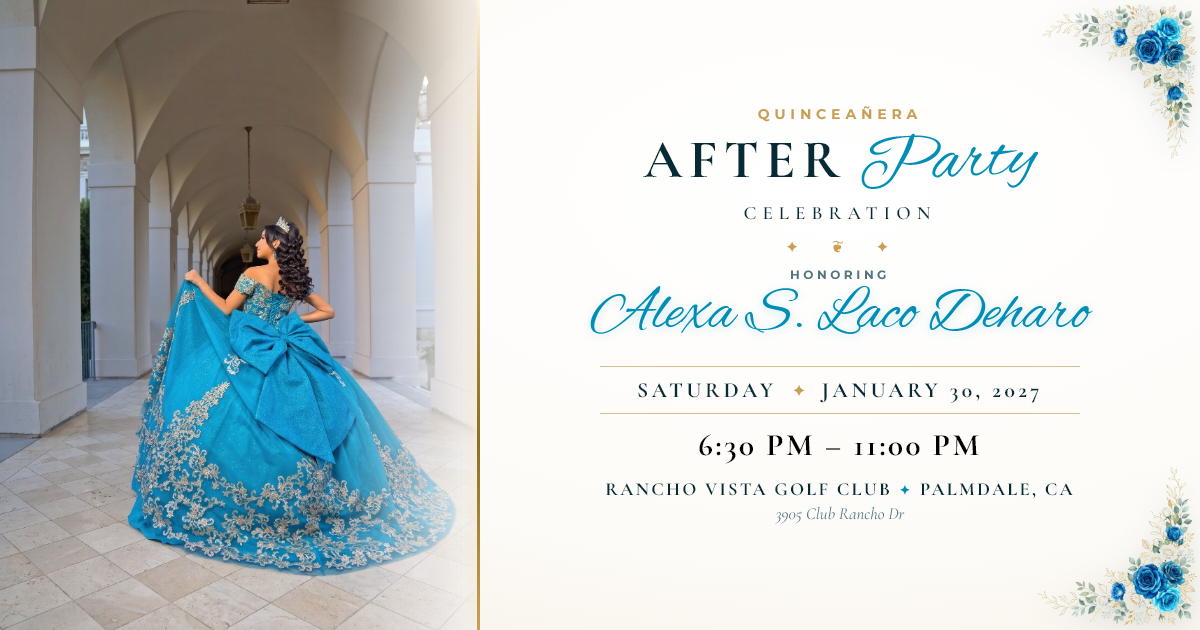
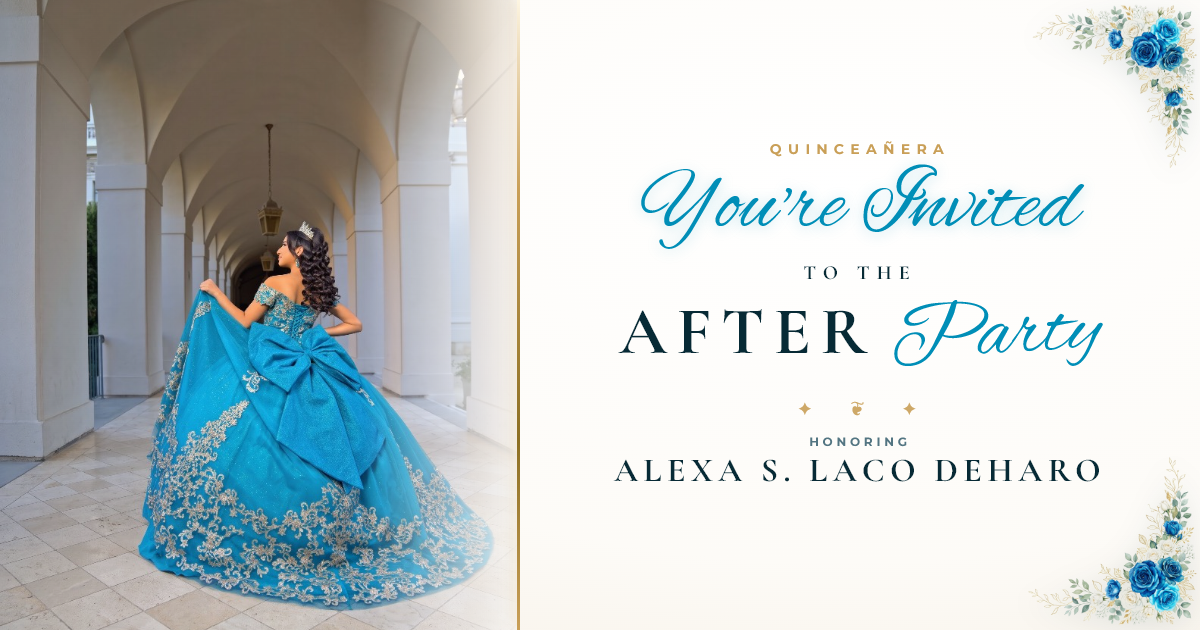
Update OG preview to minimal 'You're Invited to the After Party' with Alexa's portrait

diff --git a/alexadeharoafter/og-builder.html b/alexadeharoafter/og-builder.html
@@ -27,9 +27,9 @@
       background: #fdfbf7 radial-gradient(ellipse at 70% 30%, #ffffff 0%, #fdfbf7 60%, #f4ede1 100%);
     }
 
-    /* ── LEFT SIDE: Full-Bleed Portrait with Vignette & Arch Glow ── */
+    /* ── LEFT SIDE: Full-Bleed Portrait of Alexa ── */
     .og-left {
-      width: 480px;
+      width: 520px;
       height: 630px;
       position: relative;
       overflow: hidden;
@@ -40,13 +40,13 @@
       width: 100%;
       height: 100%;
       object-fit: cover;
-      object-position: center 30%;
+      object-position: center 28%;
       display: block;
     }
     .og-portrait-overlay {
       position: absolute;
       inset: 0;
-      background: linear-gradient(90deg, rgba(7,42,53,0.1) 0%, rgba(7,42,53,0) 70%, rgba(253,251,247,0.85) 98%, rgba(253,251,247,1) 100%);
+      background: linear-gradient(90deg, rgba(7,42,53,0.08) 0%, rgba(7,42,53,0) 70%, rgba(253,251,247,0.85) 98%, rgba(253,251,247,1) 100%);
       pointer-events: none;
     }
     .og-gold-seam {
@@ -56,11 +56,11 @@
       right: 0;
       width: 3px;
       background: linear-gradient(180deg, #fdf5e2 0%, #c99f57 30%, #8c6f23 70%, #c99f57 100%);
-      box-shadow: 0 0 12px rgba(201, 159, 87, 0.6);
+      box-shadow: 0 0 14px rgba(201, 159, 87, 0.7);
       z-index: 5;
     }
 
-    /* ── RIGHT SIDE: Luxury Stationery Presentation ── */
+    /* ── RIGHT SIDE: "You're Invited to the After Party" ── */
     .og-right {
       flex: 1;
       height: 630px;
@@ -70,7 +70,7 @@
       justify-content: center;
       align-items: center;
       text-align: center;
-      padding: 40px 60px;
+      padding: 50px 70px;
       z-index: 2;
     }
 
@@ -79,7 +79,7 @@
       position: absolute;
       top: 0;
       right: 0;
-      width: 170px;
+      width: 180px;
       pointer-events: none;
       filter: drop-shadow(0 6px 14px rgba(7, 42, 53, 0.12));
     }
@@ -87,136 +87,99 @@
       position: absolute;
       bottom: 0;
       right: 0;
-      width: 175px;
+      width: 185px;
       pointer-events: none;
       filter: drop-shadow(0 6px 14px rgba(7, 42, 53, 0.12));
     }
 
-    /* Typography */
+    /* Typography Hierarchy */
     .og-supertitle {
-      font-size: 0.85rem;
+      font-size: 0.9rem;
       font-weight: 700;
-      letter-spacing: 0.38em;
+      letter-spacing: 0.42em;
       text-transform: uppercase;
       color: #c99f57;
-      margin-bottom: 6px;
+      margin-bottom: 8px;
     }
+
+    .og-invited-script {
+      font-family: 'Alex Brush', cursive;
+      font-size: 5.4rem;
+      font-weight: 400;
+      color: #008eb7;
+      line-height: 1;
+      margin-bottom: 2px;
+      text-shadow: 0 2px 14px rgba(0, 142, 183, 0.25);
+    }
+
+    .og-to-the {
+      font-family: 'Cormorant Garamond', Georgia, serif;
+      font-size: 1.25rem;
+      font-weight: 700;
+      letter-spacing: 0.35em;
+      text-transform: uppercase;
+      color: #072a35;
+      margin: 6px 0 10px;
+    }
+
     .og-title-main {
       display: flex;
       align-items: baseline;
       justify-content: center;
-      gap: 12px;
+      gap: 14px;
       line-height: 1;
-      margin-bottom: 4px;
+      margin-bottom: 8px;
     }
+
     .og-title-bold {
       font-family: 'Cormorant Garamond', Georgia, serif;
-      font-size: 3.4rem;
+      font-size: 4.2rem;
       font-weight: 700;
-      letter-spacing: 0.12em;
+      letter-spacing: 0.14em;
       color: #072a35;
     }
+
     .og-title-script {
       font-family: 'Alex Brush', cursive;
-      font-size: 4.4rem;
+      font-size: 5.2rem;
       font-weight: 400;
       color: #008eb7;
       transform: rotate(-3deg);
       display: inline-block;
     }
-    .og-subtitle {
-      font-family: 'Cormorant Garamond', Georgia, serif;
-      font-size: 1.18rem;
-      font-weight: 600;
-      letter-spacing: 0.32em;
-      text-transform: uppercase;
-      color: #072a35;
-      margin-bottom: 12px;
-    }
+
     .og-fleuron {
-      font-size: 0.95rem;
+      font-size: 1.1rem;
       letter-spacing: 0.35em;
       color: #c99f57;
-      margin-bottom: 12px;
+      margin: 10px 0 16px;
+      opacity: 0.9;
     }
 
-    .og-honoring {
+    .og-celebrant-row {
+      display: flex;
+      flex-direction: column;
+      align-items: center;
+      gap: 4px;
+    }
+
+    .og-celebrant-label {
+      font-family: 'Montserrat', sans-serif;
       font-size: 0.72rem;
       font-weight: 700;
-      letter-spacing: 0.34em;
+      letter-spacing: 0.36em;
       text-transform: uppercase;
       color: #537582;
-      margin-bottom: 2px;
-    }
-    .og-name {
-      font-family: 'Alex Brush', cursive;
-      font-size: 3.8rem;
-      font-weight: 400;
-      line-height: 1.05;
-      color: #008eb7;
-      text-shadow: 0 2px 10px rgba(0, 142, 183, 0.22);
-      margin-bottom: 18px;
     }
 
-    /* Date & Time Row */
-    .og-date-box {
-      width: 100%;
-      max-width: 480px;
-      border-top: 1.5px solid rgba(201, 159, 87, 0.65);
-      border-bottom: 1.5px solid rgba(201, 159, 87, 0.65);
-      padding: 10px 16px;
-      margin-bottom: 14px;
-      display: flex;
-      align-items: center;
-      justify-content: center;
-      gap: 16px;
-    }
-    .og-date-text {
+    .og-celebrant-name {
       font-family: 'Cormorant Garamond', Georgia, serif;
-      font-size: 1.35rem;
+      font-size: 2.1rem;
       font-weight: 700;
       letter-spacing: 0.16em;
       text-transform: uppercase;
       color: #072a35;
-    }
-    .og-date-divider {
-      color: #c99f57;
-      font-size: 1rem;
-    }
-
-    /* Big Bold Black Time */
-    .og-time-val {
-      font-family: 'Cormorant Garamond', Georgia, serif;
-      font-size: 1.95rem;
-      font-weight: 700;
-      letter-spacing: 0.08em;
-      color: #000000;
       line-height: 1.1;
-      margin-bottom: 16px;
-    }
-
-    /* Venue details */
-    .og-venue {
-      display: flex;
-      align-items: center;
-      gap: 8px;
-      font-family: 'Cormorant Garamond', Georgia, serif;
-      font-size: 1.15rem;
-      font-weight: 700;
-      letter-spacing: 0.12em;
-      text-transform: uppercase;
-      color: #072a35;
-    }
-    .og-venue-dot {
-      color: #008eb7;
-      font-size: 0.75rem;
-    }
-    .og-location {
-      font-family: 'Cormorant Garamond', Georgia, serif;
-      font-style: italic;
-      font-size: 1.05rem;
-      color: #537582;
-      margin-top: 3px;
     }
   </style>
 </head>
@@ -230,39 +193,28 @@
       <div class="og-gold-seam"></div>
     </div>
 
-    <!-- RIGHT: Invitation Content -->
+    <!-- RIGHT: "You're Invited to the After Party" -->
     <div class="og-right">
       <img src="photos/rose-corner-tr.png" alt="" class="og-corner-tr">
       <img src="photos/rose-corner-br.png" alt="" class="og-corner-br">
 
       <p class="og-supertitle">QUINCEAÑERA</p>
+      
+      <div class="og-invited-script">You're Invited</div>
+      
+      <p class="og-to-the">TO THE</p>
+      
       <div class="og-title-main">
         <span class="og-title-bold">AFTER</span>
         <span class="og-title-script">Party</span>
       </div>
-      <p class="og-subtitle">CELEBRATION</p>
+
       <div class="og-fleuron" aria-hidden="true">✦ &nbsp; ❦ &nbsp; ✦</div>
 
-      <p class="og-honoring">HONORING</p>
-      <h1 class="og-name">Alexa S. Laco Deharo</h1>
-
-      <!-- Date Box -->
-      <div class="og-date-box">
-        <span class="og-date-text">SATURDAY</span>
-        <span class="og-date-divider">✦</span>
-        <span class="og-date-text">JANUARY 30, 2027</span>
+      <div class="og-celebrant-row">
+        <span class="og-celebrant-label">HONORING</span>
+        <span class="og-celebrant-name">Alexa S. Laco Deharo</span>
       </div>
-
-      <!-- Prominent Time -->
-      <div class="og-time-val">6:30 PM &ndash; 11:00 PM</div>
-
-      <!-- Venue -->
-      <div class="og-venue">
-        <span>Rancho Vista Golf Club</span>
-        <span class="og-venue-dot">✦</span>
-        <span>Palmdale, CA</span>
-      </div>
-      <div class="og-location">3905 Club Rancho Dr</div>
 
     </div>
 

diff --git a/alexadeharoafter/index.html b/alexadeharoafter/index.html
@@ -19,8 +19,8 @@
   <meta property="og:title" content="Alexa S. Laco Deharo — After Party" />
   <meta property="og:description"
     content="Join us for Alexa's Quinceañera After Party on Saturday, January 30, 2027 from 6:30 PM to 11:00 PM at Rancho Vista Golf Club." />
-  <meta property="og:image" content="https://disenosluna.com/alexadeharoafter/photos/og-preview.jpg?v=6" />
-  <meta property="og:image:secure_url" content="https://disenosluna.com/alexadeharoafter/photos/og-preview.jpg?v=6" />
+  <meta property="og:image" content="https://disenosluna.com/alexadeharoafter/photos/og-preview.jpg?v=7" />
+  <meta property="og:image:secure_url" content="https://disenosluna.com/alexadeharoafter/photos/og-preview.jpg?v=7" />
   <meta property="og:image:type" content="image/jpeg" />
   <meta property="og:image:width" content="1200" />
   <meta property="og:image:height" content="630" />
@@ -32,7 +32,7 @@
   <meta name="twitter:title" content="Alexa S. Laco Deharo — After Party" />
   <meta name="twitter:description"
     content="Join us for Alexa's Quinceañera After Party on Saturday, January 30, 2027 from 6:30 PM to 11:00 PM at Rancho Vista Golf Club." />
-  <meta name="twitter:image" content="https://disenosluna.com/alexadeharoafter/photos/og-preview.jpg?v=6" />
+  <meta name="twitter:image" content="https://disenosluna.com/alexadeharoafter/photos/og-preview.jpg?v=7" />
 
   <!-- Favicon / Apple Touch Icon -->
   <link rel="icon" type="image/svg+xml" href="favicon.svg?v=3" />
